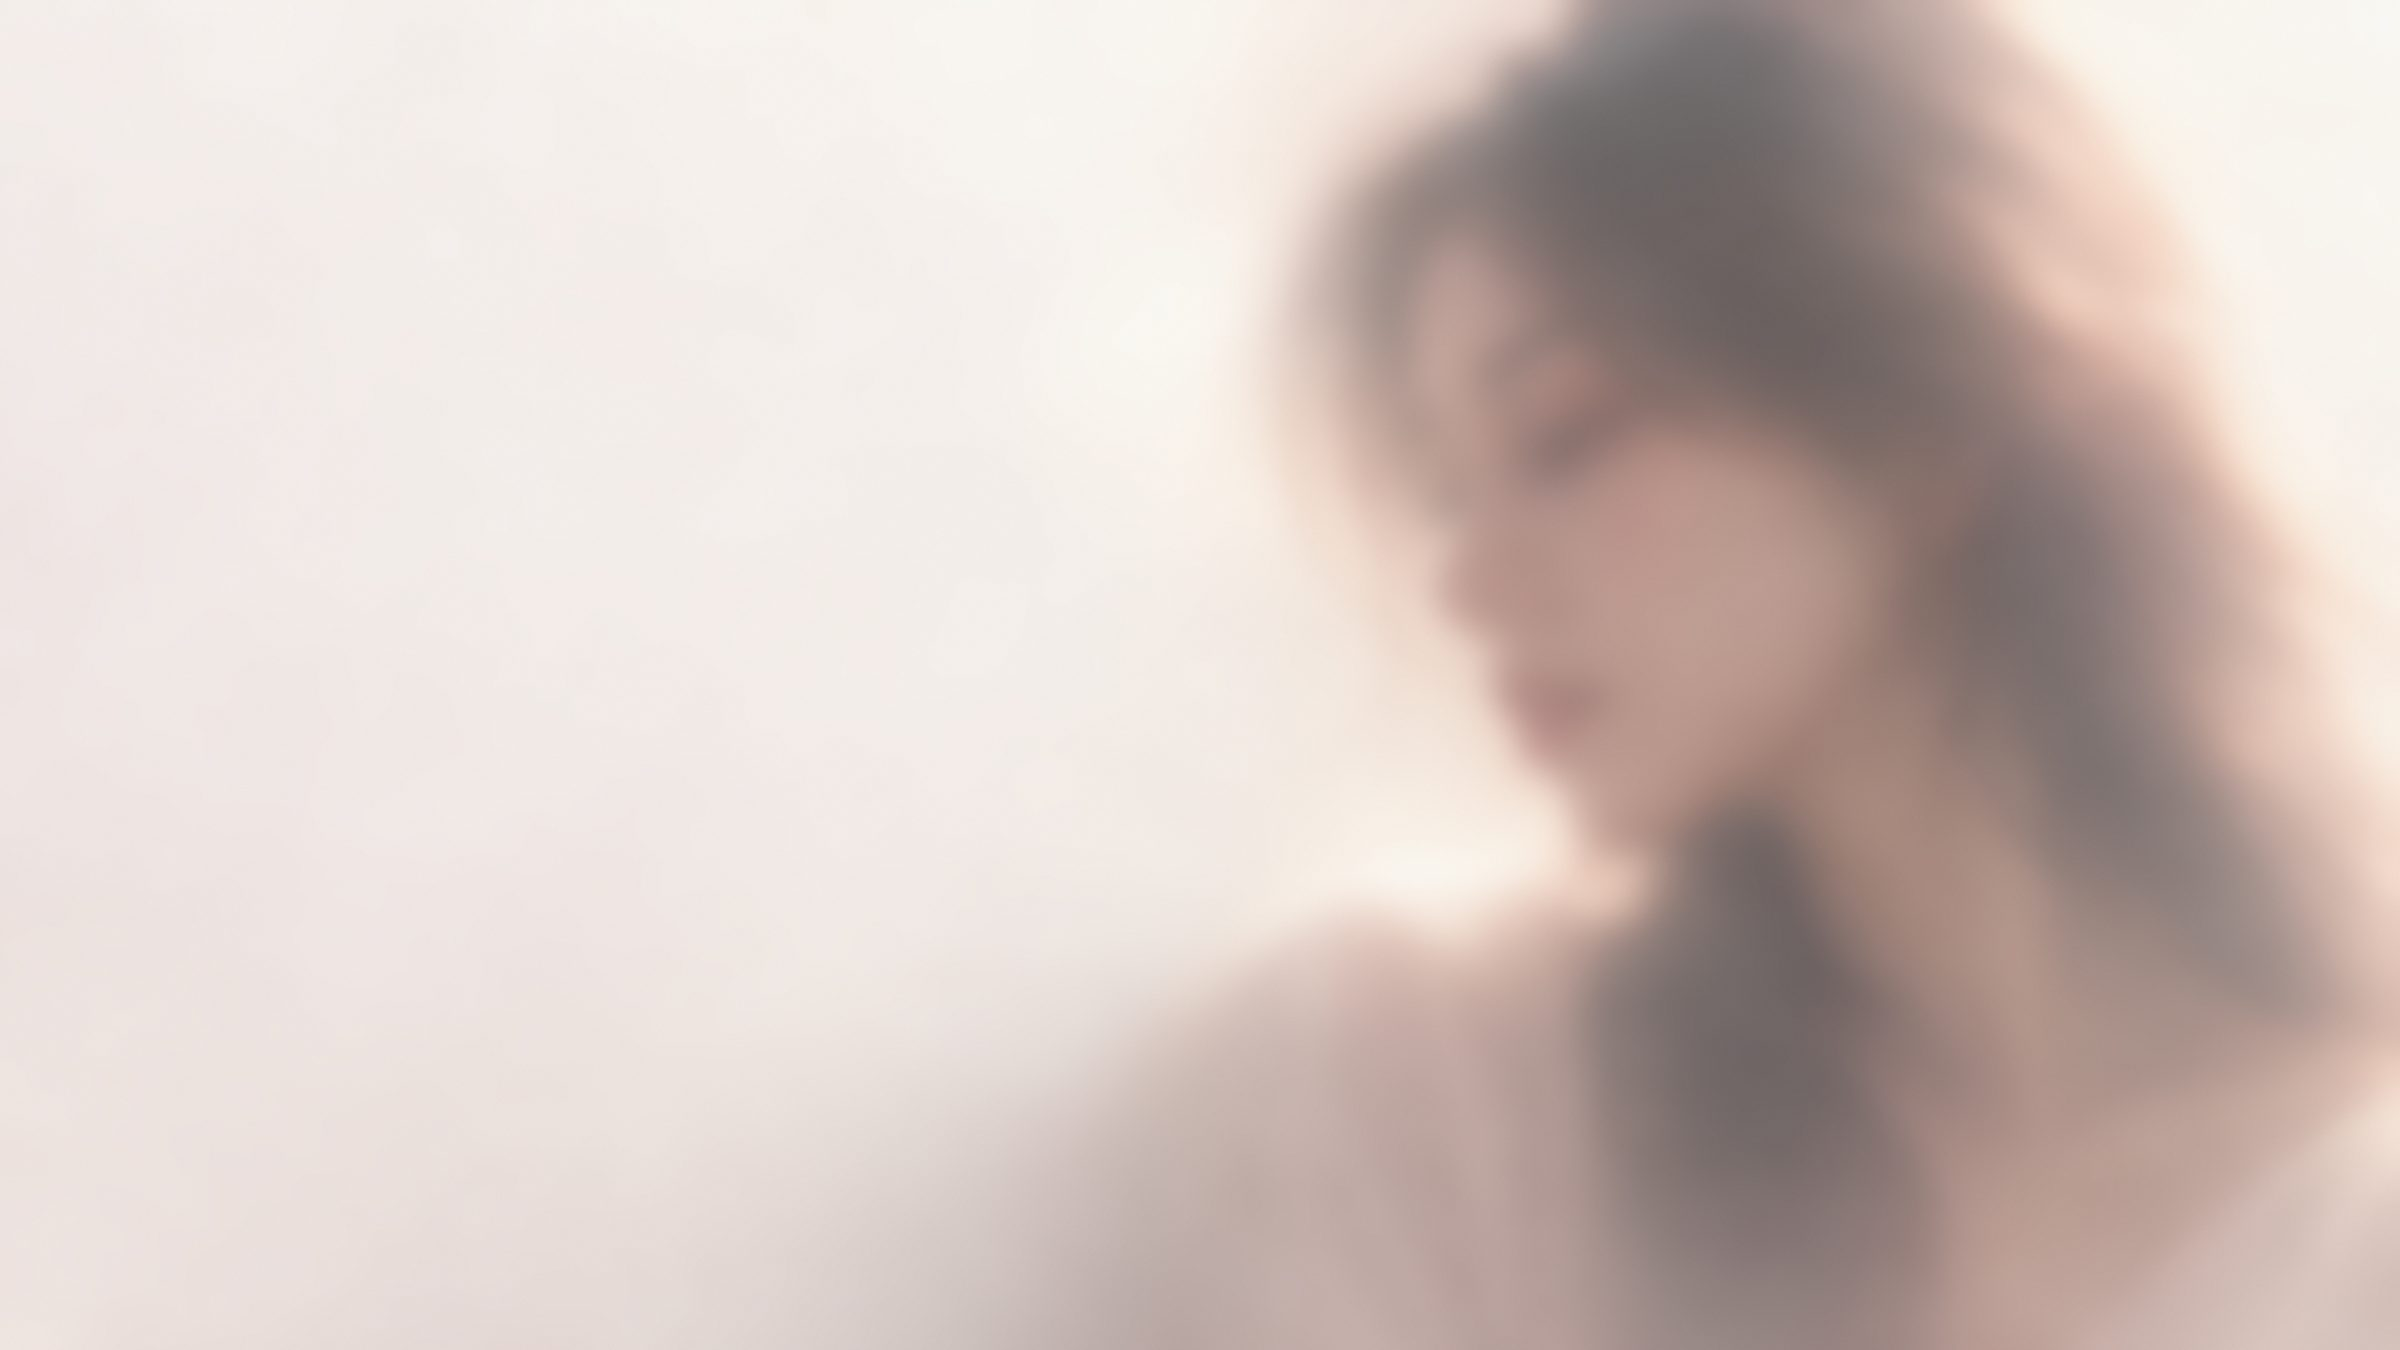
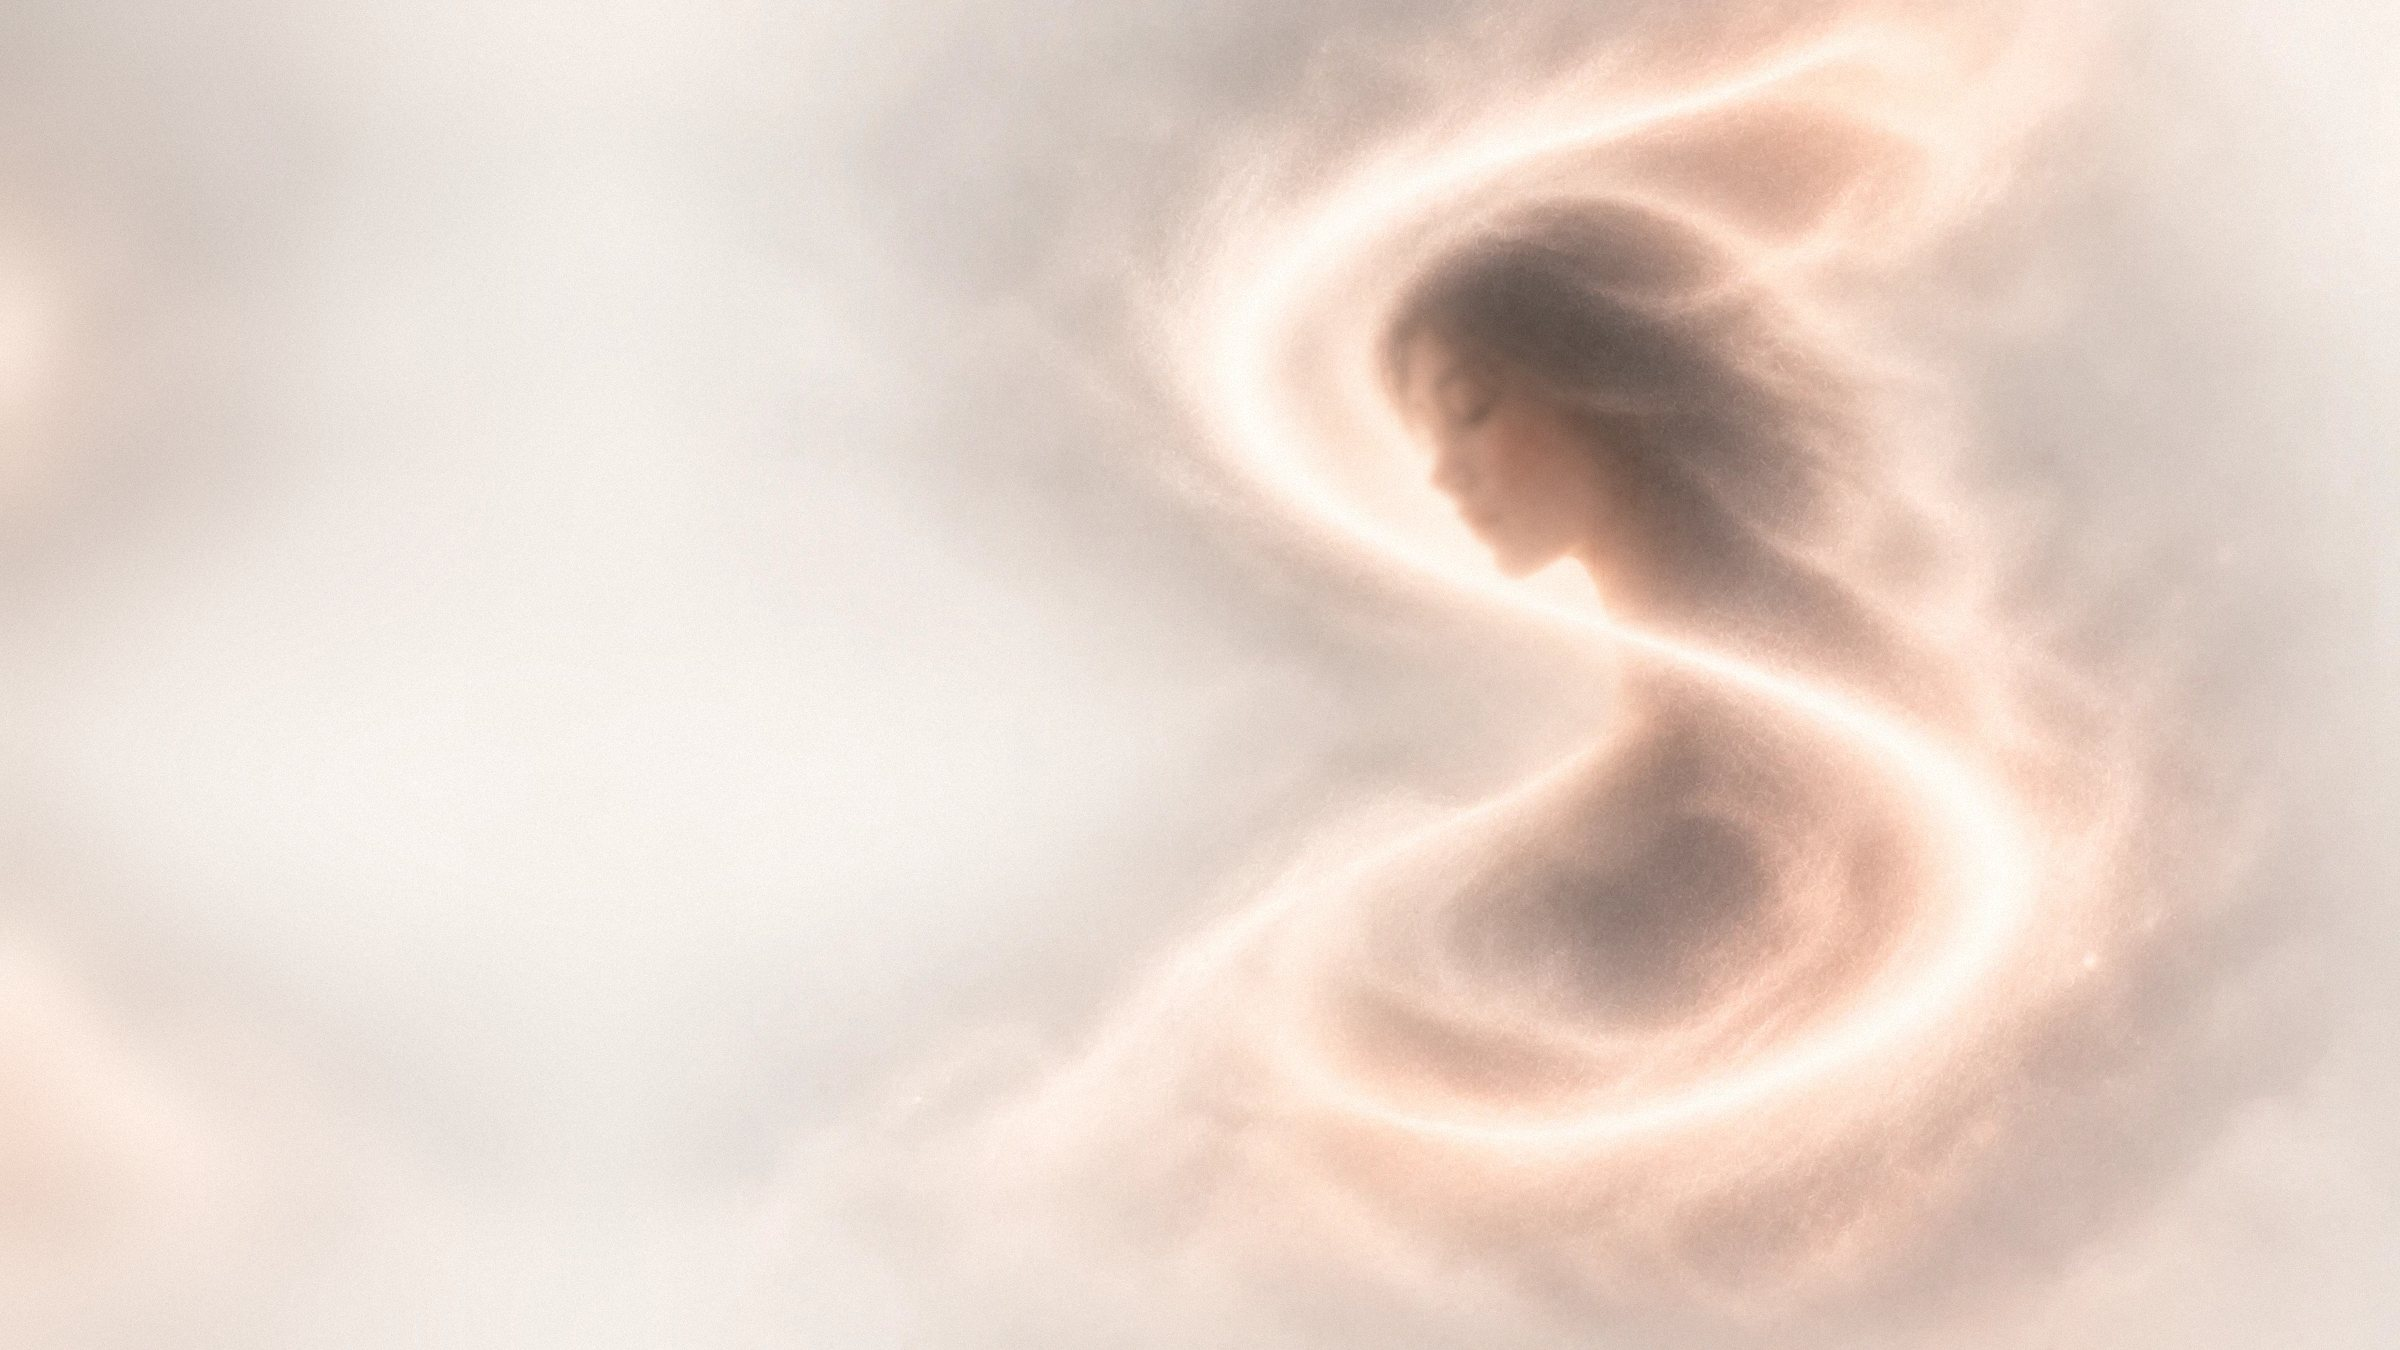
feat: the Still S artwork in the hero; the remembering card moves to the concept section (#1314)
New hero art from the owner's chosen concept: the baked-in wordmark and
sparkles removed, the face softened one step, the fog extended left to
16:9 so the whole S shows. Desktop shows the full artwork at the right,
fading into the page; mobile keeps a cropped band. The animated card now
sits beside "The brain can be borrowed", which is what it demonstrates.
Screenshot avatar and social card use the new art.

diff --git a/site/assets/home.css b/site/assets/home.css
@@ -42,8 +42,8 @@ b { font-weight: 600; }
 .bar nav a:hover { color: var(--ink); }
 
 /* Hero: name and warmth first. Text on the left, the presence on the right. */
-main > .hero { position: relative; max-width: none; padding: 0; display: grid; align-items: center; overflow: hidden; }
-.hero-art img { position: absolute; inset: 0; width: 100%; height: 100%; object-fit: cover; object-position: 70% 40%; }
+main > .hero { position: relative; max-width: none; padding: 0; display: grid; align-items: center; overflow: hidden; min-height: 36rem; background: #f3efec; }
+.hero-art img { position: absolute; top: 0; right: 0; height: 100%; width: auto; max-width: none; -webkit-mask-image: linear-gradient(to right, transparent, #000 28%); mask-image: linear-gradient(to right, transparent, #000 28%); }
 .hero-copy { position: relative; width: 100%; max-width: 70rem; margin-inline: auto; padding: clamp(2.25rem, 5vw, 3.75rem) clamp(1.25rem, 4.5vw, 3.5rem); }
 .hero-copy > * { max-width: 34rem; }
 .wordmark { display: block; font-weight: 300; font-size: clamp(3.5rem, 8vw, 6rem); line-height: .95; letter-spacing: -.02em; margin-left: -.04em; }
@@ -60,7 +60,8 @@ main > .hero { position: relative; max-width: none; padding: 0; display: grid; a
 .text-link { padding-block: .6rem; font-size: .9375rem; }
 
 /* Hero card: a 16-second CSS loop. The AI underneath changes; what Still remembers does not. */
-.pulse { position: absolute; z-index: 1; right: max(1.5rem, calc((100vw - 70rem) / 2 - 1rem)); bottom: 2rem; width: 21.5rem; padding: 1.35rem 1.5rem 1.5rem; background: rgb(255 253 250 / .88); border: 1px solid var(--line); border-radius: 1.5rem; box-shadow: 0 30px 60px -36px rgb(46 58 68 / .45); }
+.concept-top { display: grid; grid-template-columns: minmax(0, 1fr) 22rem; gap: 2rem clamp(2rem, 6vw, 5rem); align-items: center; }
+.pulse { position: relative; width: 100%; padding: 1.35rem 1.5rem 1.5rem; background: rgb(255 253 250 / .88); border: 1px solid var(--line); border-radius: 1.5rem; box-shadow: 0 30px 60px -36px rgb(46 58 68 / .45); }
 .pulse-top { display: flex; justify-content: space-between; align-items: center; gap: 1rem; font-size: .875rem; }
 .pulse-name { font-weight: 600; }
 .pulse-engine { display: inline-flex; align-items: center; gap: .4rem; color: var(--muted); }
@@ -153,10 +154,9 @@ h3 { font-size: 1.0625rem; font-weight: 600; letter-spacing: 0; }
 .foot p { margin: 0; max-width: 32rem; }
 .foot nav { display: flex; gap: 1.25rem; }
 
-@media (max-width: 1100px) {
-  .pulse { display: none; }
-}
 @media (max-width: 900px) {
+  .concept-top { grid-template-columns: 1fr; }
+  .pulse { max-width: 24rem; }
   .three, .limits { grid-template-columns: 1fr; }
   .talk { grid-template-columns: 1fr; }
 }
@@ -164,7 +164,8 @@ h3 { font-size: 1.0625rem; font-weight: 600; letter-spacing: 0; }
   body { font-size: .9375rem; }
   main > .hero { display: block; min-height: 0; }
   .hero-art { position: relative; display: block; }
-  .hero-art img { position: static; display: block; height: 15rem; object-fit: cover; object-position: 50% 20%; }
+  main > .hero { background: none; }
+  .hero-art img { position: static; display: block; width: 100%; height: 15rem; object-fit: cover; object-position: 50% 30%; -webkit-mask-image: none; mask-image: none; }
   .hero-art::after { content: ""; position: absolute; inset: auto 0 0; height: 35%; background: linear-gradient(to bottom, transparent, var(--mist)); }
   .hero-copy { margin-top: -2.5rem; padding-top: 0; padding-bottom: 2.5rem; }
   .swap { grid-template-columns: 1fr; }

diff --git a/site/ko.html b/site/ko.html
@@ -37,12 +37,6 @@
     <div class="quick"><p class="quick-label">Mac, Linux, Windows(WSL2)에서 설치</p><pre><code>curl -LsSf https://raw.githubusercontent.com/Jongtae/agentos/94776134546ed400ab1573d171c0bca2975a5f22/scripts/install.sh | sh</code></pre></div>
     <p class="actions"><a class="button" href="#install">설치 4단계 보기</a><a class="text-link" href="https://github.com/Jongtae/agentos">GitHub에서 보기</a></p>
   </div>
-  <div class="pulse" role="img" aria-label="뒤에서 생각하는 AI가 Claude Code에서 Codex로 바뀌는 동안에도 Still이 기억하는 세 가지는 그대로이고, “커피 떨어졌어”에 “늘 드시던 원두를 장바구니에 담았어요. 결제는 말씀하실 때까지 하지 않아요.”라고 답합니다.">
-    <div class="pulse-top" aria-hidden="true"><span class="pulse-name">Still</span><span class="pulse-engine"><span class="pe-label">생각하는 AI</span><span class="pe-swap"><b class="pe-a">Claude Code</b><b class="pe-b">Codex</b></span></span></div>
-    <p class="pulse-label" aria-hidden="true">Still이 기억하는 것</p>
-    <ul class="pulse-mem" aria-hidden="true"><li class="pm-1">커피는 오트밀크, 우유는 안 돼요.</li><li class="pm-2">세 시간 넘는 비행은 통로석.</li><li class="pm-3">3월, 어머니께는 백합.</li></ul>
-    <div class="pulse-chat" aria-hidden="true"><p class="pc-you">커피 떨어졌어.</p><p class="pc-still">늘 드시던 원두를 장바구니에 담았어요. 결제는 말씀하실 때까지 하지 않아요.</p></div>
-  </div>
 </section>
 
 <section class="manner" aria-labelledby="manner-title">
@@ -80,9 +74,17 @@
 </section>
 
 <section class="concept" id="concept" aria-labelledby="concept-title">
+  <div class="concept-top">
   <div class="concept-copy">
     <h2 id="concept-title">두뇌는 빌려도, Still은 내 것으로 남습니다.</h2>
     <p>토니 스타크는 자비스 뒤의 기술을 직접 소유했습니다. 우리 대부분은 모델·가격·정책이 계속 바뀌는 회사에서 비서의 두뇌를 빌려 씁니다. Personal AgentOS는 비서를 내 쪽, 내 컴퓨터에 두고 그 아래에서 생각하는 AI만 바꿀 수 있게 합니다.</p>
+  </div>
+  <div class="pulse" role="img" aria-label="뒤에서 생각하는 AI가 Claude Code에서 Codex로 바뀌는 동안에도 Still이 기억하는 세 가지는 그대로이고, “커피 떨어졌어”에 “늘 드시던 원두를 장바구니에 담았어요. 결제는 말씀하실 때까지 하지 않아요.”라고 답합니다.">
+    <div class="pulse-top" aria-hidden="true"><span class="pulse-name">Still</span><span class="pulse-engine"><span class="pe-label">생각하는 AI</span><span class="pe-swap"><b class="pe-a">Claude Code</b><b class="pe-b">Codex</b></span></span></div>
+    <p class="pulse-label" aria-hidden="true">Still이 기억하는 것</p>
+    <ul class="pulse-mem" aria-hidden="true"><li class="pm-1">커피는 오트밀크, 우유는 안 돼요.</li><li class="pm-2">세 시간 넘는 비행은 통로석.</li><li class="pm-3">3월, 어머니께는 백합.</li></ul>
+    <div class="pulse-chat" aria-hidden="true"><p class="pc-you">커피 떨어졌어.</p><p class="pc-still">늘 드시던 원두를 장바구니에 담았어요. 결제는 말씀하실 때까지 하지 않아요.</p></div>
+  </div>
   </div>
   <div class="swap">
     <div>

diff --git a/site/index.html b/site/index.html
@@ -37,12 +37,6 @@
     <div class="quick"><p class="quick-label">Install on Mac, Linux or Windows (WSL2)</p><pre><code>curl -LsSf https://raw.githubusercontent.com/Jongtae/agentos/94776134546ed400ab1573d171c0bca2975a5f22/scripts/install.sh | sh</code></pre></div>
     <p class="actions"><a class="button" href="#install">See the four steps</a><a class="text-link" href="https://github.com/Jongtae/agentos">View on GitHub</a></p>
   </div>
-  <div class="pulse" role="img" aria-label="Still keeps three things it remembers while the AI underneath changes from Claude Code to Codex, then answers “Out of coffee.” with “Your usual beans are in the cart. Nothing is paid until you say so.”">
-    <div class="pulse-top" aria-hidden="true"><span class="pulse-name">Still</span><span class="pulse-engine"><span class="pe-label">thinking with</span><span class="pe-swap"><b class="pe-a">Claude Code</b><b class="pe-b">Codex</b></span></span></div>
-    <p class="pulse-label" aria-hidden="true">Still remembers</p>
-    <ul class="pulse-mem" aria-hidden="true"><li class="pm-1">Oat milk, never dairy.</li><li class="pm-2">An aisle seat after three hours.</li><li class="pm-3">Lilies for your mother, in March.</li></ul>
-    <div class="pulse-chat" aria-hidden="true"><p class="pc-you">Out of coffee.</p><p class="pc-still">Your usual beans are in the cart. Nothing is paid until you say so.</p></div>
-  </div>
 </section>
 
 <section class="manner" aria-labelledby="manner-title">
@@ -80,9 +74,17 @@
 </section>
 
 <section class="concept" id="concept" aria-labelledby="concept-title">
+  <div class="concept-top">
   <div class="concept-copy">
     <h2 id="concept-title">The brain can be borrowed. Still stays yours.</h2>
     <p>Tony Stark owned the technology behind J.A.R.V.I.S. Most of us will borrow our assistant’s brain from a provider whose models, prices and rules keep changing. Personal AgentOS keeps the assistant on your side, on your machine, and lets the AI underneath be replaced.</p>
+  </div>
+  <div class="pulse" role="img" aria-label="Still keeps three things it remembers while the AI underneath changes from Claude Code to Codex, then answers “Out of coffee.” with “Your usual beans are in the cart. Nothing is paid until you say so.”">
+    <div class="pulse-top" aria-hidden="true"><span class="pulse-name">Still</span><span class="pulse-engine"><span class="pe-label">thinking with</span><span class="pe-swap"><b class="pe-a">Claude Code</b><b class="pe-b">Codex</b></span></span></div>
+    <p class="pulse-label" aria-hidden="true">Still remembers</p>
+    <ul class="pulse-mem" aria-hidden="true"><li class="pm-1">Oat milk, never dairy.</li><li class="pm-2">An aisle seat after three hours.</li><li class="pm-3">Lilies for your mother, in March.</li></ul>
+    <div class="pulse-chat" aria-hidden="true"><p class="pc-you">Out of coffee.</p><p class="pc-still">Your usual beans are in the cart. Nothing is paid until you say so.</p></div>
+  </div>
   </div>
   <div class="swap">
     <div>
